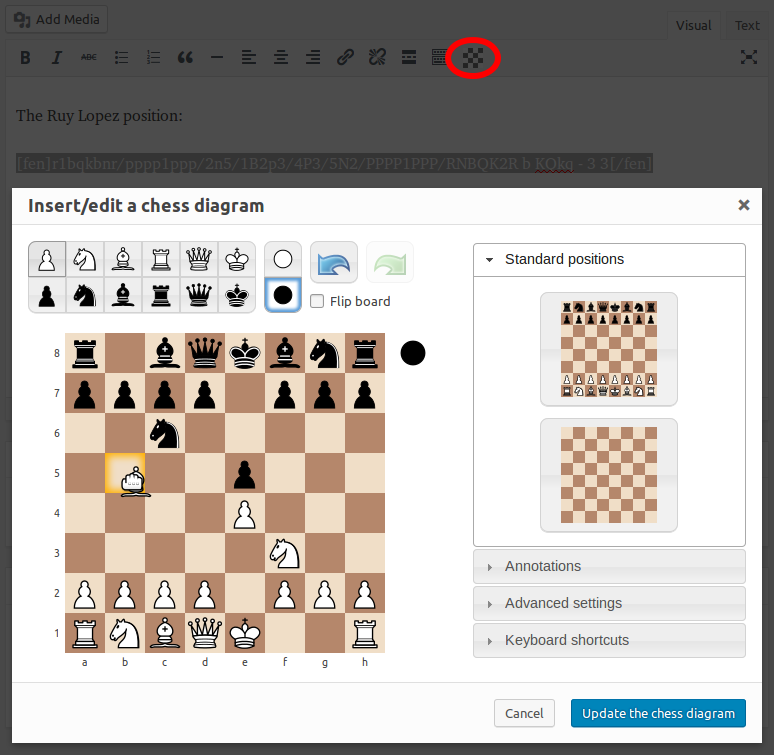
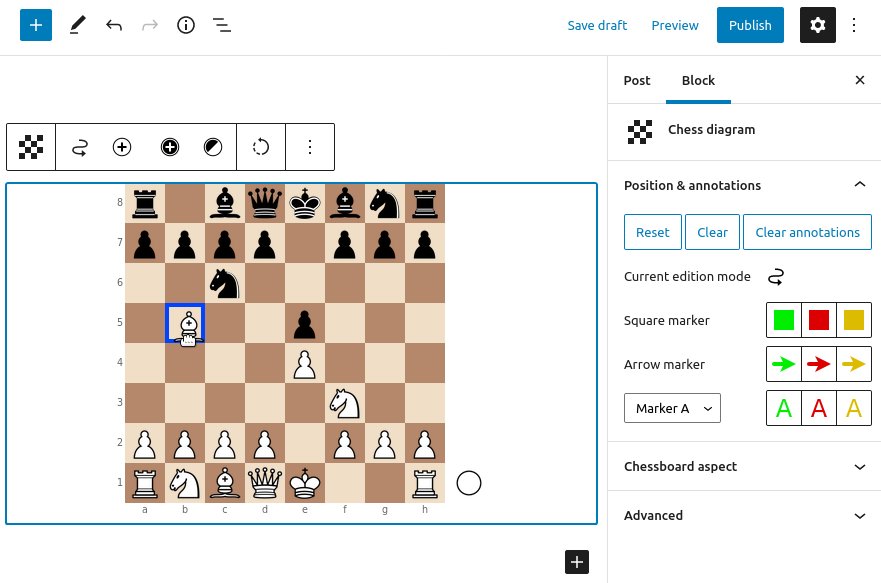
Update editor screenshot & description

diff --git a/README.md b/README.md
@@ -29,7 +29,7 @@ Features
 * Compatibility mode to avoid conflicts with the other plugins that use
   the `[fen][/fen]` and `[pgn][/pgn]` shortcodes too.
 * Upload PGN files and load PGN data from a URL.
-* Graphical assistant to create and modify chess diagrams in the post/page editor.
+* Diagram block with its editor embedded in the WordPress post/page editor.
 * Multi-language support.
 
 If you encounter some bugs with this program, or if you wish to get new features
@@ -89,6 +89,6 @@ and that he had a forced win in every variation.}
 <img alt="screenshot-7" src="assets/screenshot-7.png" width="600" />
 
 
-### Graphical assistant for chess diagrams creation/modification ###
+### Diagram block with its editor embedded in the WordPress post/page editor ###
 
 <img alt="screenshot-8" src="assets/screenshot-8.png" width="600" />
